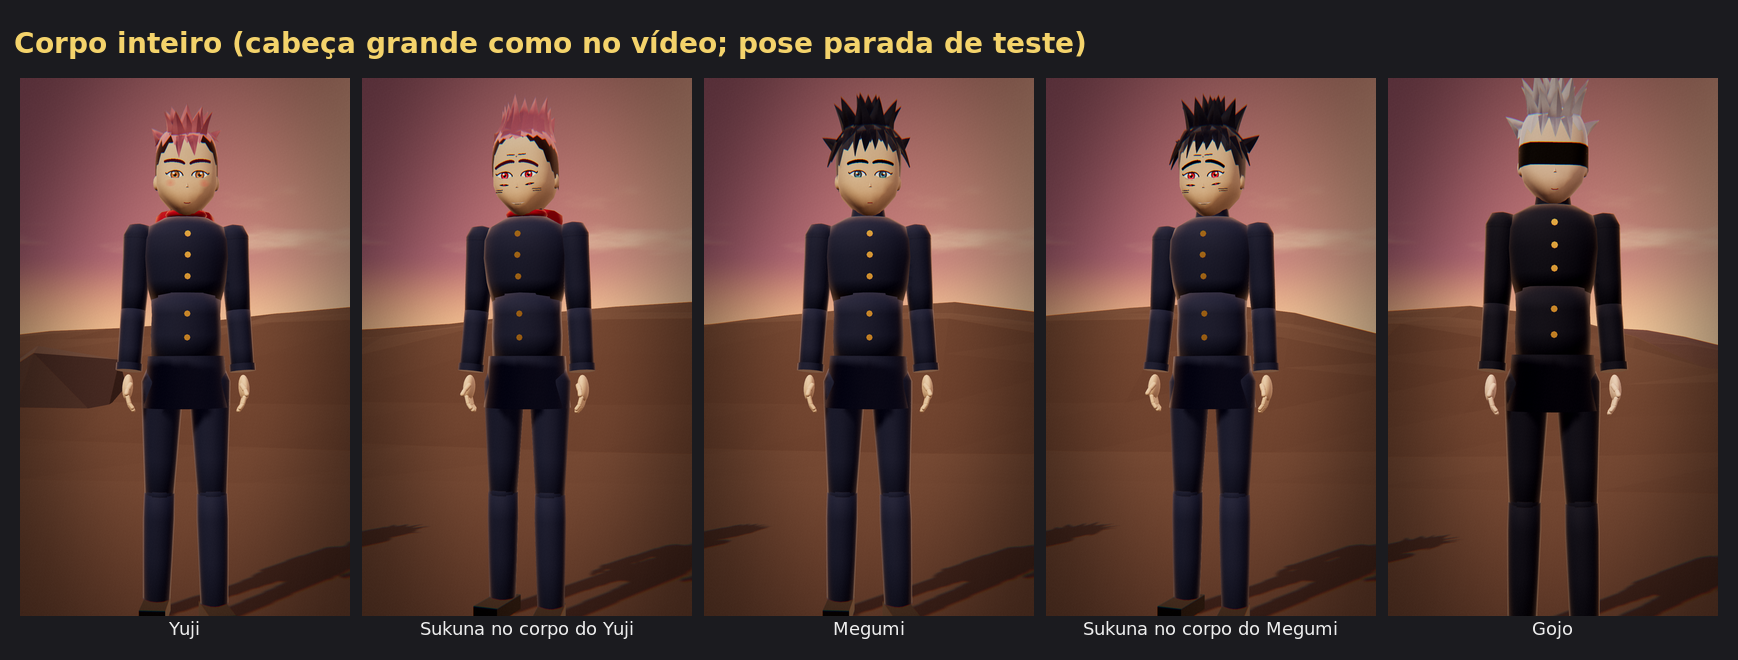
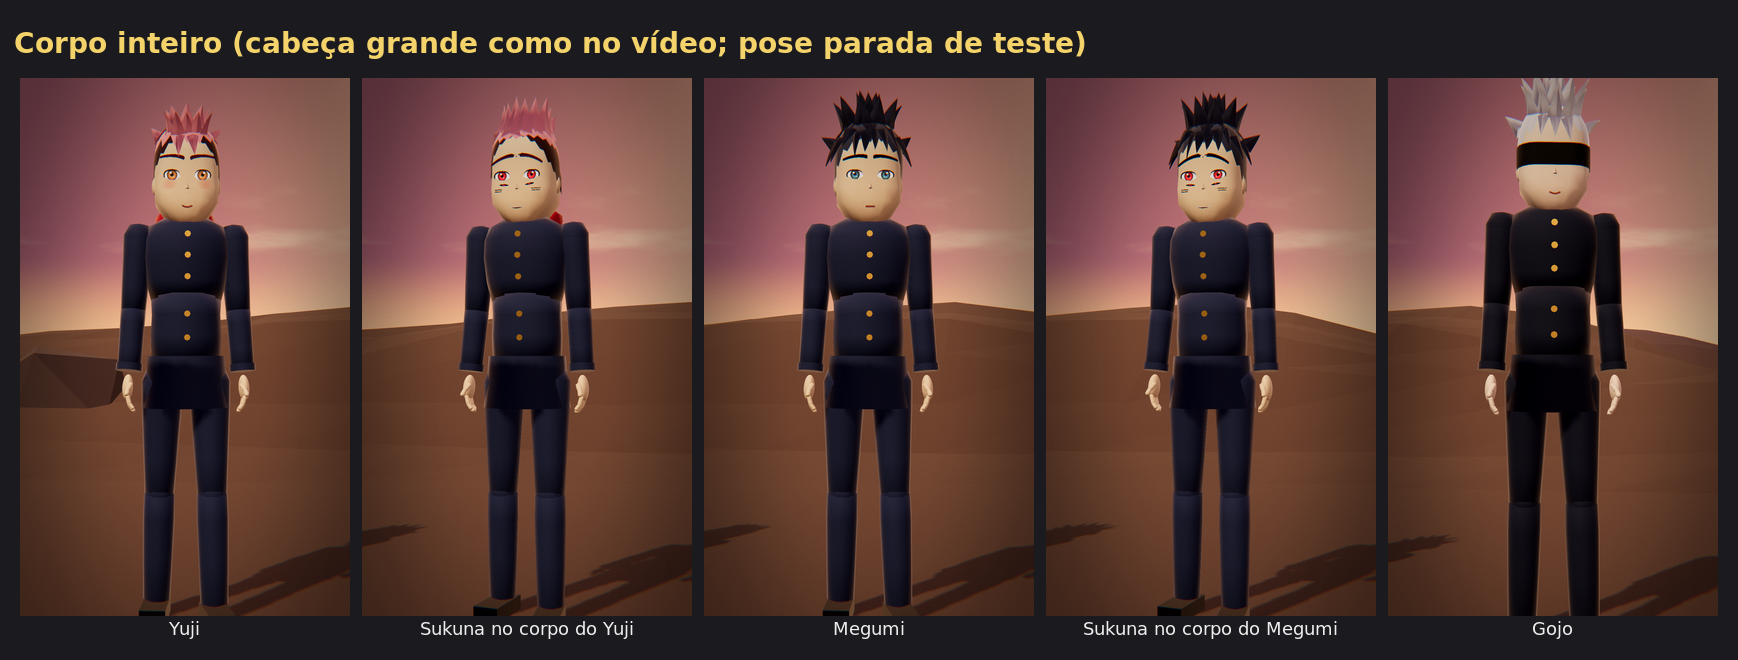
Personagens low-poly v5: medidos traço a traço no Eren criança do vídeo de referência
- Cabeça: metade de baixo mais comprida e cheia (queixo longo em U), rosto mais largo.
- Olhos maiores, com o traço de cima em fita (fino no canto de dentro, grosso em cima
  e no canto de fora), íris com raios claros, vinco e linha de baixo.
- Nariz 3D maior, sobrancelhas mais altas e compridas, boca em retângulo arredondado
  (o dobro da largura) mais baixa, blush largo, orelhas maiores.
- Cabelo mais volumoso, franja até perto das sobrancelhas, laterais curtas e largas,
  topo com várias pontas pequenas; gola mais baixa pra mostrar o queixo.
- Câmeras de calibração iguais aos quadros de 9 s e 12 s do vídeo.

Claude-Session: https://claude.ai/code/session_01NohiMdkC2Su1SAJxQxprzv

diff --git a/tools/motor3d/lowpoly.js b/tools/motor3d/lowpoly.js
@@ -47,49 +47,61 @@ function vincoNormais(geo, ang = 0.6) {
 
 // ---------------------------------------------------------------- texturas do rosto
 const EYT = {};
-// olho de anime da referência (o Eren criança): olho alto e arredondado, íris enorme e redonda que ocupa quase toda a altura,
-// contorno escuro na íris, pupila, dois brilhos; cílio de cima em arco preto grosso passando do canto; linha de baixo fina
-// e o vinco da pálpebra (arco fino acima). alt < 1 deixa o olho mais baixo (adultos).
+// olho de anime da referência (o Eren criança, medido quadro a quadro): abertura alta e redonda; o traço de cima é um arco
+// alto e grosso que desce pelos dois cantos (o externo desce mais, em gancho); íris enorme (~70% da largura) com o topo
+// escondido sob o traço, anel escuro, raios claros, pupila e dois brilhos; linha de baixo fina e o vinco fino acima do olho.
+// alt < 1 deixa o olho mais baixo (adultos, olhar sério).
 function olhoTex(iris, o = {}) {
   const k = iris + JSON.stringify(o); if (EYT[k]) return EYT[k];
   return (EYT[k] = canvasTex(256, 200, (c, w, h) => {
     c.clearRect(0, 0, w, h);
-    const al = o.alt ?? 1, L = 24, R = 234, yL = 112, yR = 98, T = 102 - 72 * al, B = 102 + 64 * al;
-    const cima = () => { c.moveTo(L, yL); c.bezierCurveTo(L + 18, T + 4, R - 72, T - 8, R, yR); };
-    const baixo = () => { c.bezierCurveTo(R - 14, B - 6, L + 60, B + 8, L, yL); };
-    c.save(); c.beginPath(); cima(); baixo(); c.closePath(); c.clip();
-    c.fillStyle = o.esclera ?? "#f7f4f0"; c.fillRect(0, 0, w, h);
-    const ix = 128 + (o.dx ?? 0), iy = 106, ir = 66 * Math.min(1.04, Math.max(0.72, al));
-    const g = c.createRadialGradient(ix, iy + ir * 0.35, ir * 0.08, ix, iy, ir);
-    g.addColorStop(0, corCSS(iris, 0.2)); g.addColorStop(0.55, corCSS(iris, 0.04)); g.addColorStop(1, corCSS(iris, -0.16));
+    const al = o.alt ?? 1, L = 32, R = 224, T = 104 - 66 * al, B = 104 + 62 * al;
+    const arco = () => { c.moveTo(L, 122); c.bezierCurveTo(L + 4, T + 18, L + 44, T, 128, T); c.bezierCurveTo(R - 34, T, R + 2, T + 22, R + 2, 112); };
+    const abertura = () => { arco(); c.bezierCurveTo(R - 6, B - 10, 170, B + 2, 128, B + 2); c.bezierCurveTo(84, B + 2, L + 6, B - 18, L, 122); };
+    c.save(); c.beginPath(); abertura(); c.closePath(); c.clip();
+    c.fillStyle = o.esclera ?? "#f8f6f2"; c.fillRect(0, 0, w, h);
+    const ix = 130 + (o.dx ?? 0), iy = 106, ir = 68 * Math.min(1.02, Math.max(0.7, al));
+    const g = c.createRadialGradient(ix, iy + ir * 0.4, ir * 0.1, ix, iy, ir);
+    g.addColorStop(0, corCSS(iris, 0.22)); g.addColorStop(0.6, corCSS(iris, 0.04)); g.addColorStop(1, corCSS(iris, -0.14));
     c.fillStyle = g; c.beginPath(); c.arc(ix, iy, ir, 0, Math.PI * 2); c.fill();
-    c.strokeStyle = corCSS(iris, -0.36); c.lineWidth = 8; c.beginPath(); c.arc(ix, iy, ir - 4, 0, Math.PI * 2); c.stroke();
-    c.fillStyle = "#0b0809"; c.beginPath(); if (o.fenda) c.ellipse(ix, iy, ir * 0.14, ir * 0.6, 0, 0, Math.PI * 2); else c.arc(ix, iy, ir * 0.38, 0, Math.PI * 2); c.fill();
-    c.fillStyle = "#ffffff"; c.beginPath(); c.ellipse(ix + ir * 0.3, iy - ir * 0.34, ir * 0.27, ir * 0.24, -0.5, 0, Math.PI * 2); c.fill();
-    c.globalAlpha = 0.9; c.beginPath(); c.arc(ix - ir * 0.38, iy + ir * 0.34, ir * 0.11, 0, Math.PI * 2); c.fill(); c.globalAlpha = 1;
-    const sh = c.createLinearGradient(0, T, 0, T + 40); sh.addColorStop(0, "rgba(70,50,50,.45)"); sh.addColorStop(1, "rgba(70,50,50,0)"); c.fillStyle = sh; c.fillRect(0, 0, w, h);
+    c.strokeStyle = "rgba(255,255,255,.16)"; c.lineWidth = 3; for (let i = 0; i < 14; i++) { const an = (i / 14) * Math.PI * 2; c.beginPath(); c.moveTo(ix + Math.cos(an) * ir * 0.4, iy + Math.sin(an) * ir * 0.4); c.lineTo(ix + Math.cos(an) * ir * 0.86, iy + Math.sin(an) * ir * 0.86); c.stroke(); }
+    c.strokeStyle = corCSS(iris, -0.34); c.lineWidth = 7; c.beginPath(); c.arc(ix, iy, ir - 3.5, 0, Math.PI * 2); c.stroke();
+    c.fillStyle = "#0b0809"; c.beginPath(); if (o.fenda) c.ellipse(ix, iy - 4, ir * 0.13, ir * 0.58, 0, 0, Math.PI * 2); else c.ellipse(ix + 2, iy - 6, ir * 0.33, ir * 0.37, 0, 0, Math.PI * 2); c.fill();
+    c.fillStyle = "#ffffff"; c.beginPath(); c.ellipse(ix + ir * 0.3, iy - ir * 0.42, ir * 0.24, ir * 0.2, -0.3, 0, Math.PI * 2); c.fill();
+    c.globalAlpha = 0.85; c.beginPath(); c.arc(ix - ir * 0.36, iy + ir * 0.42, ir * 0.1, 0, Math.PI * 2); c.fill(); c.globalAlpha = 1;
+    const sh = c.createLinearGradient(0, T, 0, T + 44); sh.addColorStop(0, "rgba(60,40,40,.5)"); sh.addColorStop(1, "rgba(60,40,40,0)"); c.fillStyle = sh; c.fillRect(0, 0, w, h);
     c.restore();
     c.lineCap = "round"; c.lineJoin = "round";
-    c.strokeStyle = "rgba(150,100,90,.75)"; c.lineWidth = 4; c.beginPath(); c.moveTo(L + 70, B + 2); c.bezierCurveTo(L + 110, B + 6, R - 50, B, R - 18, B - 18); c.stroke(); // linha de baixo
-    c.strokeStyle = "rgba(150,100,90,.6)"; c.lineWidth = 3.5; c.beginPath(); c.moveTo(L + 40, T + 2); c.bezierCurveTo(L + 70, T - 22, R - 60, T - 26, R - 26, T - 6); c.stroke(); // vinco da pálpebra
-    c.strokeStyle = o.cilio ?? "#141010"; c.lineWidth = 15; c.beginPath(); cima(); c.quadraticCurveTo(R + 8, yR - 2, R + 16, yR - 14); c.stroke(); // cílio de cima
+    c.strokeStyle = "rgba(140,96,84,.6)"; c.lineWidth = 3.5; c.beginPath(); c.moveTo(70, B - 2); c.bezierCurveTo(100, B + 6, 180, B + 2, R - 14, B - 22); c.stroke();        // linha de baixo
+    c.strokeStyle = "rgba(140,96,84,.55)"; c.lineWidth = 3.5; c.beginPath(); c.moveTo(96, T - 14); c.bezierCurveTo(150, T - 22, R - 6, T - 14, R + 8, T + 18); c.stroke(); // vinco
+    // traço de cima: fita de espessura variável seguindo o arco (fino no canto de dentro, grosso no alto e no canto de fora)
+    const pts = []; { const P0 = [L + 6, 112], P1 = [L + 8, T + 16], P2 = [L + 44, T], P3 = [128, T], Q1 = [R - 34, T], Q2 = [R + 2, T + 22], Q3 = [R + 2, 112], Q4 = [R - 4, 136];
+      const bz = (a, b_, c_, d_, t) => { const u = 1 - t; return [u * u * u * a[0] + 3 * u * u * t * b_[0] + 3 * u * t * t * c_[0] + t * t * t * d_[0], u * u * u * a[1] + 3 * u * u * t * b_[1] + 3 * u * t * t * c_[1] + t * t * t * d_[1]]; };
+      for (let i = 0; i <= 20; i++) pts.push(bz(P0, P1, P2, P3, i / 20)); for (let i = 1; i <= 20; i++) pts.push(bz(P3, Q1, Q2, Q3, i / 20)); for (let i = 1; i <= 6; i++) { const t = i / 6; pts.push([Q3[0] + (Q4[0] - Q3[0]) * t, Q3[1] + (Q4[1] - Q3[1]) * t]); } }
+    const esp = (i) => { const f = i / (pts.length - 1); return f < 0.4 ? lerp(1.5, 9, sm(f / 0.4)) : f < 0.85 ? 9 : lerp(9, 6, (f - 0.85) / 0.15); };
+    const nrm = (i) => { const a_ = pts[Math.max(0, i - 1)], b_ = pts[Math.min(pts.length - 1, i + 1)], dx = b_[0] - a_[0], dy = b_[1] - a_[1], l = Math.hypot(dx, dy) || 1; return [-dy / l, dx / l]; };
+    c.fillStyle = o.cilio ?? "#141010"; c.beginPath();
+    pts.forEach((q, i) => { const [nx, ny] = nrm(i), e = esp(i); i ? c.lineTo(q[0] + nx * e, q[1] + ny * e) : c.moveTo(q[0] + nx * e, q[1] + ny * e); });
+    for (let i = pts.length - 1; i >= 0; i--) { const [nx, ny] = nrm(i), e = esp(i); c.lineTo(pts[i][0] - nx * e * 0.6, pts[i][1] - ny * e * 0.6); }
+    c.closePath(); c.fill();
   }));
 }
-// olho fechado: arco escuro curvado pra baixo com cílios no canto (como o Eren dormindo na referência)
-const olhoFechadoTex = canvasTex(256, 200, (c, w, h) => { c.clearRect(0, 0, w, h); c.strokeStyle = "#141010"; c.lineCap = "round"; c.lineWidth = 12; c.beginPath(); c.moveTo(26, 104); c.quadraticCurveTo(128, 150, 232, 100); c.stroke(); c.lineWidth = 6; [[176, 128], [204, 118], [226, 106]].forEach(([x, y]) => { c.beginPath(); c.moveTo(x, y); c.lineTo(x + 8, y + 14); c.stroke(); }); });
-const sobrancelhaTex = canvasTex(256, 64, (c, w, h) => { c.clearRect(0, 0, w, h); c.fillStyle = "#ffffff"; c.beginPath(); c.moveTo(10, 44); c.bezierCurveTo(50, 6, 180, 2, 246, 24); c.bezierCurveTo(254, 28, 252, 46, 242, 46); c.bezierCurveTo(180, 30, 70, 38, 22, 62); c.bezierCurveTo(8, 64, 2, 52, 10, 44); c.closePath(); c.fill(); });
+// olho fechado (medido no Eren dormindo): arco escuro grosso curvado pra baixo, com cílios curtos embaixo
+const olhoFechadoTex = canvasTex(256, 200, (c, w, h) => { c.clearRect(0, 0, w, h); c.strokeStyle = "#141010"; c.lineCap = "round"; c.lineWidth = 13; c.beginPath(); c.moveTo(28, 104); c.bezierCurveTo(70, 140, 180, 146, 228, 100); c.stroke(); c.lineWidth = 5; [[80, 130], [110, 136], [140, 137], [170, 133], [198, 122]].forEach(([x, y]) => { c.beginPath(); c.moveTo(x, y); c.lineTo(x + 3, y + 15); c.stroke(); }); });
+// sobrancelha: barra comprida e grossa, mais grossa na ponta de dentro, arco suave e pontas arredondadas
+const sobrancelhaTex = canvasTex(256, 64, (c, w, h) => { c.clearRect(0, 0, w, h); c.fillStyle = "#ffffff"; c.beginPath(); c.moveTo(14, 26); c.bezierCurveTo(70, 4, 170, 4, 240, 26); c.bezierCurveTo(252, 30, 250, 46, 238, 44); c.bezierCurveTo(170, 28, 80, 30, 20, 58); c.bezierCurveTo(4, 62, 2, 34, 14, 26); c.closePath(); c.fill(); });
 const BOCAT = {};
 function bocaTex(tipo) {
   if (BOCAT[tipo]) return BOCAT[tipo];
   return (BOCAT[tipo] = canvasTex(256, 128, (c, w, h) => {
-    c.clearRect(0, 0, w, h); c.lineCap = "round"; c.lineJoin = "round"; const cx = w / 2, cy = h / 2, cor = "#7a2a26";
-    if (tipo === "linha") { c.fillStyle = cor; c.beginPath(); c.roundRect(cx - 44, cy - 8, 88, 16, 6); c.fill(); }
-    else if (tipo === "sorriso") { c.strokeStyle = cor; c.lineWidth = 15; c.beginPath(); c.moveTo(cx - 50, cy - 8); c.quadraticCurveTo(cx, cy + 14, cx + 50, cy - 8); c.stroke(); }
-    else if (tipo === "triste") { c.strokeStyle = cor; c.lineWidth = 13; c.beginPath(); c.moveTo(cx - 46, cy + 6); c.lineTo(cx - 22, cy - 6); c.lineTo(cx, cy + 2); c.lineTo(cx + 22, cy - 6); c.lineTo(cx + 46, cy + 6); c.stroke(); }
-    else if (tipo === "aberta") { c.fillStyle = "#5a1014"; c.beginPath(); c.ellipse(cx, cy, 26, 20, 0, 0, Math.PI * 2); c.fill(); c.fillStyle = "#a83a3e"; c.beginPath(); c.ellipse(cx, cy + 9, 16, 8, 0, 0, Math.PI * 2); c.fill(); }
-    else if (tipo === "risada") { // sorriso de canto a canto do Sukuna, fino, com a fileira de dentes
-      c.fillStyle = "#2a0a0e"; c.beginPath(); c.moveTo(cx - 96, cy - 14); c.quadraticCurveTo(cx, cy + 34, cx + 96, cy - 14); c.quadraticCurveTo(cx, cy + 6, cx - 96, cy - 14); c.fill();
-      c.save(); c.clip(); c.fillStyle = "#f4efe6"; for (let i = 0; i < 13; i++) c.fillRect(cx - 90 + i * 14, cy - 12, 11, 14); c.restore();
+    c.clearRect(0, 0, w, h); c.lineCap = "round"; c.lineJoin = "round"; const cx = w / 2, cy = h / 2, cor = "#86402f";
+    if (tipo === "linha") { c.fillStyle = cor; c.beginPath(); c.roundRect(cx - 60, cy - 11, 120, 22, 9); c.fill(); }
+    else if (tipo === "sorriso") { c.strokeStyle = cor; c.lineWidth = 20; c.beginPath(); c.moveTo(cx - 58, cy - 10); c.quadraticCurveTo(cx, cy + 22, cx + 58, cy - 10); c.stroke(); }
+    else if (tipo === "triste") { c.strokeStyle = cor; c.lineWidth = 20; c.beginPath(); c.moveTo(cx - 56, cy + 12); c.quadraticCurveTo(cx, cy - 18, cx + 56, cy + 12); c.stroke(); }
+    else if (tipo === "aberta") { c.fillStyle = "#3a0c10"; c.beginPath(); c.ellipse(cx, cy, 34, 26, 0, 0, Math.PI * 2); c.fill(); c.fillStyle = "#b8343a"; c.beginPath(); c.ellipse(cx, cy + 12, 22, 11, 0, 0, Math.PI * 2); c.fill(); }
+    else if (tipo === "risada") { // sorriso de canto a canto do Sukuna, com a fileira de dentes
+      c.fillStyle = "#2a0a0e"; c.beginPath(); c.moveTo(cx - 110, cy - 16); c.quadraticCurveTo(cx, cy + 40, cx + 110, cy - 16); c.quadraticCurveTo(cx, cy + 8, cx - 110, cy - 16); c.fill();
+      c.save(); c.clip(); c.fillStyle = "#f4efe6"; for (let i = 0; i < 15; i++) c.fillRect(cx - 104 + i * 14, cy - 14, 11, 16); c.restore();
     }
   }));
 }
@@ -97,7 +109,7 @@ function narizGeo(w, hh, p) {
   const T = [0, hh * 0.62, 0], E = [-w / 2, -hh * 0.38, 0], D = [w / 2, -hh * 0.38, 0], P = [0, -hh * 0.3, p];
   const g = new THREE.BufferGeometry(); g.setAttribute("position", new THREE.Float32BufferAttribute([...T, ...E, ...P, ...T, ...P, ...D, ...E, ...D, ...P], 3)); g.computeVertexNormals(); return g;
 }
-const blushTex = canvasTex(128, 64, (c, w, h) => { c.clearRect(0, 0, w, h); const g = c.createRadialGradient(w / 2, h / 2, 2, w / 2, h / 2, w / 2); g.addColorStop(0, "rgba(240,120,120,.55)"); g.addColorStop(1, "rgba(240,120,120,0)"); c.fillStyle = g; c.beginPath(); c.ellipse(w / 2, h / 2, w / 2, h / 2, 0, 0, Math.PI * 2); c.fill(); });
+const blushTex = canvasTex(128, 64, (c, w, h) => { c.clearRect(0, 0, w, h); const g = c.createRadialGradient(w / 2, h / 2, 2, w / 2, h / 2, w / 2); g.addColorStop(0, "rgba(242,128,120,.5)"); g.addColorStop(0.55, "rgba(242,128,120,.28)"); g.addColorStop(1, "rgba(242,128,120,0)"); c.fillStyle = g; c.save(); c.scale(1, h / w); c.beginPath(); c.arc(w / 2, w / 2, w / 2, 0, Math.PI * 2); c.restore(); c.fill(); });
 // marcas do Sukuna: o segundo par de olhos, as listras das bochechas e a marca da testa
 const olhoExtraTex = canvasTex(256, 96, (c, w, h) => { c.clearRect(0, 0, w, h); const cx = w / 2, cy = h / 2; c.fillStyle = "#140a0c"; c.beginPath(); c.moveTo(cx - 116, cy + 4); c.quadraticCurveTo(cx, cy - 44, cx + 116, cy - 6); c.quadraticCurveTo(cx, cy + 40, cx - 116, cy + 4); c.fill();
   c.fillStyle = "#d8202c"; c.beginPath(); c.ellipse(cx, cy, 28, 20, 0, 0, 7); c.fill(); c.fillStyle = "#2a0606"; c.beginPath(); c.ellipse(cx, cy, 9, 18, 0, 0, 7); c.fill(); c.fillStyle = "#fff"; c.beginPath(); c.arc(cx - 9, cy - 7, 5, 0, 7); c.fill(); });
@@ -105,20 +117,27 @@ const bochechaTex = canvasTex(256, 128, (c, w, h) => { c.clearRect(0, 0, w, h); 
 const testaTex = canvasTex(256, 64, (c, w, h) => { c.clearRect(0, 0, w, h); c.fillStyle = "#16090c"; c.beginPath(); c.moveTo(14, 20); c.lineTo(w / 2 - 22, 22); c.lineTo(w / 2, 58); c.lineTo(w / 2 + 22, 22); c.lineTo(w - 14, 20); c.lineTo(w - 14, 30); c.lineTo(w / 2 + 16, 32); c.lineTo(w / 2, 48); c.lineTo(w / 2 - 16, 32); c.lineTo(14, 30); c.closePath(); c.fill(); });
 
 // ---------------------------------------------------------------- cabeça
-// quadrado arredondado (superelipsoide) com a frente quase plana; afina numa mandíbula comprida e queixo arredondado
-const HEAD = { a: 0.087, b: 0.124, c: 0.092, n: 2.9, cy: 0.105, frente: 0.9, jawY: -0.3, jaw: 0.5 };
-function superDir(d, n) { const s_ = Math.pow(Math.pow(Math.abs(d.x), n) + Math.pow(Math.abs(d.y), n) + Math.pow(Math.abs(d.z), n), -1 / n); return d.multiplyScalar(s_); }
+// cabeça medida no Eren criança da referência: crânio arredondado em cima; embaixo um bloco mais "cheio" (expoente maior),
+// frente plana descendo até o queixo, bochechas retas até a altura da boca e queixo largo em U
+const HEAD = { a: 0.092, b: 0.132, bBaixo: 0.158, c: 0.092, n: 2.6, nBaixo: 3.6, cy: 0.103, frente: 0.9, jawY: -0.46, jaw: 0.42 };
+const yCab = (uy, H) => H.cy + uy * (uy < 0 ? H.bBaixo ?? H.b : H.b); // metade de baixo mais comprida (queixo longo como na referência)
+function superDir(d, n, m = n) { // superelipsoide com expoente n em x/z e m em y: acha t com |tx|^n + |ty|^m + |tz|^n = 1
+  const f = (t) => Math.pow(Math.abs(d.x * t), n) + Math.pow(Math.abs(d.y * t), m) + Math.pow(Math.abs(d.z * t), n) - 1;
+  let lo = 0, hi = 2; for (let i = 0; i < 30; i++) { const mid = (lo + hi) / 2; if (f(mid) > 0) hi = mid; else lo = mid; }
+  return d.multiplyScalar((lo + hi) / 2);
+}
 function headUnit(v, H = HEAD) {
-  superDir(v.normalize(), H.n);
+  v.normalize(); const baixo = v.y < 0;
+  superDir(v, baixo ? (H.nBaixo ?? H.n) : H.n, baixo ? (H.nBaixo ?? H.n) : H.n);
   if (v.z > H.frente) v.z = H.frente;
-  if (v.y < H.jawY) { const k = sm(clamp((H.jawY - v.y) / (1 + H.jawY))); v.x *= 1 - H.jaw * k; v.z *= v.z < 0 ? 1 - 0.35 * k : 1 - 0.1 * k; }
+  if (v.y < H.jawY) { const k = sm(clamp((H.jawY - v.y) / (1 + H.jawY))); v.x *= 1 - H.jaw * k; v.z *= v.z < 0 ? 1 - 0.3 * k : 1 - 0.14 * k; }
   if (v.z < 0) v.z *= 1.05;
   return v;
 }
 function headGeoLP(o = {}) {
   const H = { ...HEAD, ...o }, g = new THREE.SphereGeometry(1, o.ws ?? 16, o.hs ?? 14);
-  deform(g, (v) => { headUnit(v, H); v.set(v.x * H.a, H.cy + v.y * H.b, v.z * H.c); });
-  return vincoNormais(g, 1.05);
+  deform(g, (v) => { headUnit(v, H); v.set(v.x * H.a, yCab(v.y, H), v.z * H.c); });
+  return vincoNormais(g, 1.3);
 }
 
 // ---------------------------------------------------------------- cabelo
@@ -152,7 +171,7 @@ function capaceteGeo(o, H) {
     const thE = (bordaCabelo(o, ph) + (ponta ? (hash(jj * 1.7 + seed) - 0.5) * (o.varia ?? 0.06) : -(o.entalhe ?? 0.1))) * Math.PI;
     for (let i = 0; i <= SV; i++) {
       const th = (i / SV) * thE, u = headUnit(V3_(Math.sin(th) * Math.sin(ph), Math.cos(th), Math.sin(th) * Math.cos(ph)), H), inf = inflaCabelo(o, i / SV);
-      pos.push(u.x * H.a * inf, H.cy + u.y * H.b * inf, u.z * H.c * inf);
+      pos.push(u.x * H.a * inf, H.cy + (yCab(u.y, H) - H.cy) * inf, u.z * H.c * inf);
     }
   }
   for (let j = 0; j < SH; j++) for (let i = 0; i < SV; i++) { const a = j * (SV + 1) + i, b = a + SV + 1; idx.push(a, a + 1, b, a + 1, b + 1, b); }
@@ -185,7 +204,7 @@ function cabeloLP(head, o) {
   const mf = LPmat(o.cor, { rim: 1.1, side: THREE.DoubleSide, rough: 0.82 }); // mechas facetadas (sombreado chapado, como na referência)
   if (o.baixo) mesh(capaceteGeo({ ...o, ...o.baixo }, H), LPmat(o.baixo.cor, { rim: 0.9, liso: true, side: THREE.DoubleSide, rough: 0.85 }), 0, 0, 0, hr); // camada de baixo (undercut escuro)
   mesh(capaceteGeo(o, H), m, 0, 0, 0, hr);
-  const pt = (th, ph, inf) => { const u = headUnit(V3_(Math.sin(th) * Math.sin(ph), Math.cos(th), Math.sin(th) * Math.cos(ph)), H); return { u, w: V3_(u.x * H.a * inf, cy + u.y * H.b * inf, u.z * H.c * inf) }; };
+  const pt = (th, ph, inf) => { const u = headUnit(V3_(Math.sin(th) * Math.sin(ph), Math.cos(th), Math.sin(th) * Math.cos(ph)), H); return { u, w: V3_(u.x * H.a * inf, cy + (yCab(u.y, H) - cy) * inf, u.z * H.c * inf) }; };
   const naCasca = (th, ph, ext = 0.012) => { const thE = bordaCabelo(o, ph) * Math.PI, inf = inflaCabelo(o, clamp(th / thE)) + ext; return pt(th, ph, inf); };
   // pétalas largas deitadas, escorrendo do topo (dão as camadas do cabelo)
   const np = o.petalas ?? 0, seed = o.seed ?? 0;
@@ -236,7 +255,7 @@ function pessoaLP(o = {}) {
   const chP = [[0.001, -0.02], [0.138, -0.02], [0.16, 0.06], [0.176, 0.15], [0.174, 0.22], [0.148, 0.27], [0.086, 0.305], [0.001, 0.31]];
   const ch = mesh(lathe(chP, R + 2), roupa, 0, 0, 0, S.chest); ch.scale.z = 0.72;
   const hem = mesh(lathe([[0.152, 0.07], [0.16, -0.03], [0.172, -0.13]], R + 2), roupa2, 0, 0, 0, S.hips); hem.scale.z = 0.84;
-  const gola = mesh(new THREE.CylinderGeometry(0.056, 0.07, 0.085, R + 2, 1, true), roupa2, 0, 0.34, -0.004, S.chest); gola.scale.z = 0.94;
+  const gola = mesh(new THREE.CylinderGeometry(0.058, 0.07, 0.06, R + 2, 1, true), roupa2, 0, 0.326, -0.004, S.chest); gola.scale.z = 0.94;
   if (P.botoes !== false) {
     [0.07, 0.15, 0.23].forEach((y) => { const b = mesh(cyl(0.012, 0.012, 0.006, 8), botao, 0, y, perfilR(chP.slice(1), y) * 0.72 + 0.002, S.chest); b.rotation.x = Math.PI / 2; });
     [0.04, 0.13].forEach((y) => { const b = mesh(cyl(0.012, 0.012, 0.006, 8), botao, 0, y, 0.137 * 0.76 + 0.002, S.spine); b.rotation.x = Math.PI / 2; });
@@ -259,9 +278,9 @@ function pessoaLP(o = {}) {
   mesh(cyl(0.036, 0.042, 0.1, R), skin, 0, 0.03, 0, S.neck);
   const headM = mesh(headGeoLP(P.cabeca || {}), skin, 0, 0, 0);
   const zAt = (x, y) => surfZ(headM, x, y);
-  [-1, 1].forEach((k) => { const ea = mesh(sph(1, 8, 6), skin, k * 0.085, 0.088, -0.012); ea.scale.set(0.011, 0.022, 0.015); S.head.add(ea); });
+  [-1, 1].forEach((k) => { const ea = mesh(sph(1, 8, 6), skin, k * 0.087, 0.078, -0.012); ea.scale.set(0.013, 0.028, 0.017); S.head.add(ea); });
   // rosto: olhos largos e baixos, sobrancelhas grossas, nariz em dois tons, bocas, blush
-  const EX = 0.0345, EY = 0.093, OW = 0.054 * (P.olhoTam ?? 1), OH = OW * 200 / 256;
+  const EX = 0.042, EY = 0.093, OW = 0.066 * (P.olhoTam ?? 1), OH = OW * 200 / 256;
   const olhos = [], fechados = [];
   if (!P.venda) [-1, 1].forEach((k) => {
     const g = grp(S.head, k * EX, EY, zAt(k * EX, EY) + 0.003); g.rotation.set(0, 0, k * (P.olhoInc ?? 0));
@@ -269,13 +288,13 @@ function pessoaLP(o = {}) {
     const f = decal(S.head, olhoFechadoTex, OW, OH, k * EX, EY - 0.002, zAt(k * EX, EY) + 0.0035, 0, 0, { espelho: k < 0 }); f.visible = false;
     olhos.push(g); fechados.push(f);
   });
-  const brows = [-1, 1].map((k) => { const y = EY + 0.034, rz0 = -k * (0.02 + (P.brava ?? 0) * 0.24); const g = grp(S.head, k * (EX + 0.001), y, zAt(k * EX, y) + 0.0034); g.rotation.z = rz0; g.userData = { y0: y, rz0 }; decal(g, sobrancelhaTex, 0.062, 0.02, 0, 0, 0, 0, 0, { espelho: k < 0, basico: true, cor: P.sobrancelha ?? 0x2a1c18 }); g.visible = !P.venda; return g; });
-  mesh(narizGeo(0.012, 0.017, 0.0075), LPmat(P.pele, { rim: 0.3, rough: 0.7 }), 0, 0.064, zAt(0, 0.064) - 0.0012, S.head); // nariz 3D
-  const MY = 0.015, mz = zAt(0, MY) + 0.003;
+  const brows = [-1, 1].map((k) => { const y = EY + 0.047, rz0 = -k * (0.02 + (P.brava ?? 0) * 0.24); const g = grp(S.head, k * (EX + 0.001), y, zAt(k * EX, y) + 0.0034); g.rotation.z = rz0; g.userData = { y0: y, rz0 }; decal(g, sobrancelhaTex, 0.074, 0.02, 0, 0, 0, 0, 0, { espelho: k < 0, basico: true, cor: P.sobrancelha ?? 0x2a1c18 }); g.visible = !P.venda; return g; });
+  mesh(narizGeo(0.0145, 0.022, 0.009), LPmat(P.pele, { rim: 0.3, rough: 0.7 }), 0, 0.062, zAt(0, 0.062) - 0.0014, S.head); // nariz 3D
+  const MY = 0.004, mz = zAt(0, MY) + 0.003;
   const bocas = {};
-  ["linha", "sorriso", "triste", "aberta"].forEach((t) => (bocas[t] = decal(S.head, bocaTex(t), 0.042, 0.021, 0, MY, mz)));
-  bocas.risada = decal(S.head, bocaTex("risada"), 0.058, 0.029, 0, MY, mz + 0.001);
-  if (P.blush) [-1, 1].forEach((k) => decal(S.head, blushTex, 0.036, 0.02, k * 0.047, 0.07, zAt(k * 0.047, 0.07) + 0.003, k * 0.25, 0, { suave: true }));
+  ["linha", "sorriso", "triste", "aberta"].forEach((t) => (bocas[t] = decal(S.head, bocaTex(t), 0.056, 0.028, 0, MY, mz)));
+  bocas.risada = decal(S.head, bocaTex("risada"), 0.066, 0.033, 0, MY, mz + 0.001);
+  if (P.blush) [-1, 1].forEach((k) => decal(S.head, blushTex, 0.05, 0.026, k * 0.05, 0.066, zAt(k * 0.05, 0.066) + 0.003, k * 0.3, 0, { suave: true }));
   let extras = null;
   if (P.sukuna) { // marcas do Sukuna
     extras = [-1, 1].map((k) => { const y = EY - 0.027, g = grp(S.head, k * 0.037, y, zAt(k * 0.036, y) + 0.003); g.rotation.set(0, 0, k * 0.1); decal(g, olhoExtraTex, 0.032, 0.012, 0, 0, 0); return g; });
@@ -316,7 +335,7 @@ const JJK = { navy: 0x2f3b58, navy2: 0x222a3e, botao: 0xd4aa50 };
 // cabelos do elenco: capacete liso + mechas grossas (como o Eren criança da referência)
 // tufos = mechas espetadas pra fora/cima saindo do topo; franja = mechas caindo na testa
 const tufos = (n, ph0, ph1, th, L, W, kr, ky, kb, x = {}) => franjaMechas(n, ph0, ph1, th, L, W, { kd: 0, kr, ky, kb, curva: x.curva ?? 0.2, esp: x.esp ?? 0.45, giro: x.giro ?? 0.6, seed: x.seed ?? 0 });
-const camadaTopo = (seed, L = 0.072, W = 0.066) => franjaMechas(10, -1, 0.8, 0.07, L, W, { seed, curva: -0.4, esp: 0.32, kr: 0.02, giro: 0.4 });
+const camadaTopo = (seed, L = 0.074, W = 0.078) => franjaMechas(8, -1, 0.75, 0.07, L, W, { seed, curva: -0.4, esp: 0.3, kr: 0.02, giro: 0.4 });
 const CAB = {
   undercut: { cor: 0x3e2226, bordaFrente: 0.28, bordaLado: 0.56, bordaTras: 0.6, volume: 1.05, volBorda: 1.03, dentes: 26, entalhe: 0.03, varia: 0.02 },
   yuji: { cor: 0xf09aa8, dentes: 16, bordaFrente: 0.32, bordaLado: 0.36, bordaTras: 0.42, volume: 1.12, volBorda: 1.065, entalhe: 0.06, varia: 0.05, petalas: 0, seed: 3,
@@ -353,23 +372,23 @@ const CAB = {
       ...tufos(5, 0.6, 1.4, 0.3, 0.065, 0.05, 0.8, 0.4, 0.5, { seed: 45 }),
     ] },
 };
-function yujiLP(o = {}) { return pessoaLP({ seed: 11, pele: 0xffe2b8, olho: "#b06a34", olhoAlt: 0.92, capuz: 0xb3262c, roupa: JJK.navy, calca: JJK.navy, blush: true, sobrancelha: 0x4a2228, cabelo: { ...CAB.yuji, baixo: CAB.undercut }, ...o }); }
+function yujiLP(o = {}) { return pessoaLP({ seed: 11, pele: 0xffe2b8, olho: "#b06a34", olhoAlt: 0.9, olhoTam: 0.92, capuz: 0xb3262c, roupa: JJK.navy, calca: JJK.navy, blush: true, sobrancelha: 0x4a2228, cabelo: { ...CAB.yuji, baixo: CAB.undercut }, ...o }); }
 function sukunaYujiLP(o = {}) { return yujiLP({ seed: 12, olho: "#c41e2a", olhoAlt: 0.8, olhoInc: 0.05, blush: false, sukuna: true, brava: 0.6, cabelo: { ...CAB.sukunaYuji, baixo: CAB.undercut }, ...o }); }
-function megumiLP(o = {}) { return pessoaLP({ seed: 21, pele: 0xfde0b6, olho: "#2f6070", olhoAlt: 0.82, brava: 0.35, roupa: JJK.navy, calca: JJK.navy, sobrancelha: 0x14161c, cabelo: CAB.megumi, ...o }); }
+function megumiLP(o = {}) { return pessoaLP({ seed: 21, pele: 0xfde0b6, olho: "#2f6070", olhoAlt: 0.8, olhoTam: 0.92, brava: 0.35, roupa: JJK.navy, calca: JJK.navy, sobrancelha: 0x14161c, cabelo: CAB.megumi, ...o }); }
 function sukunaMegumiLP(o = {}) { return megumiLP({ seed: 22, olho: "#c41e2a", olhoInc: 0.05, sukuna: true, brava: 0.65, ...o }); }
 function gojoLP(o = {}) { return pessoaLP({ seed: 31, pele: 0xffe6c8, venda: true, roupa: JJK.navy2, calca: JJK.navy2, scale: 1.08, cabelo: CAB.gojo, ...o }); }
 // calibração 2: o Eren criança da referência (cena da árvore), pra comparar rosto e cabelo lado a lado
 function erenCriancaLP(o = {}) {
-  const topete = (th, ph, L, kr, ky, kb) => ({ th, ph, L, W: 0.05, esp: 0.45, curva: 0.22, kd: 0.2, kr, ky, kb });
-  return pessoaLP({ seed: 6, pele: 0xffe4b8, olho: "#2a9a88", olhoAlt: 0.94, blush: true, roupa: 0x5c7a46, calca: 0x4a5a3a, botoes: false, sobrancelha: 0x2e1e14,
-    cabelo: { cor: 0x4a3020, dentes: 16, bordaFrente: 0.3, bordaLado: 0.56, bordaTras: 0.64, volume: 1.17, entalhe: 0.05, varia: 0.04, petalas: 0, seed: 2,
+  const topete = (th, ph, L, kr, ky, kb) => ({ th, ph, L, W: 0.062, esp: 0.45, curva: 0.22, kd: 0.2, kr, ky, kb });
+  return pessoaLP({ seed: 6, pele: 0xffdcaa, olho: "#2a9a88", olhoAlt: 0.94, blush: true, roupa: 0x5c7a46, calca: 0x4a5a3a, botoes: false, sobrancelha: 0x2e1e14,
+    cabelo: { cor: 0x4a3020, dentes: 16, bordaFrente: 0.3, bordaLado: 0.56, bordaTras: 0.64, volume: 1.26, volBorda: 1.08, entalhe: 0.05, varia: 0.04, petalas: 0, seed: 2,
       grossas: [
-        ...franjaMechas(10, -1, 0.8, 0.07, 0.072, 0.066, { seed: 5, curva: -0.4, esp: 0.32, kr: 0.02, giro: 0.4 }), // camada de cima: cobre o topo
-        ...franjaMechas(7, -0.24, 0.24, 0.25, 0.066, 0.034, { seed: 1, giro: 0.7 }),        // franja: triângulos grossos até as sobrancelhas
-        ...franjaMechas(3, 0.3, 0.5, 0.3, 0.074, 0.05, { seed: 2, kl: 0.2 }),               // laterais cobrindo as têmporas
-        ...franjaMechas(3, -0.5, -0.3, 0.3, 0.074, 0.05, { seed: 3, kl: 0.2 }),
+        ...franjaMechas(8, -1, 0.75, 0.07, 0.074, 0.078, { seed: 5, curva: -0.4, esp: 0.3, kr: 0.02, giro: 0.4 }), // camada de cima: poucas mechas largas cobrindo o topo
+        ...franjaMechas(7, -0.24, 0.24, 0.25, 0.066, 0.038, { seed: 1, giro: 0.7 }),        // franja: triângulos grossos até perto das sobrancelhas
+        ...franjaMechas(2, 0.32, 0.5, 0.3, 0.062, 0.064, { seed: 2, kl: 0.16 }),             // laterais curtas e largas sobre as têmporas
+        ...franjaMechas(2, -0.5, -0.32, 0.3, 0.062, 0.064, { seed: 3, kl: 0.16 }),
         ...franjaMechas(5, 0.62, 1.38, 0.42, 0.062, 0.042, { seed: 4 }),                    // nuca
-        topete(0.04, 0.15, 0.055, 0.5, 0.9, 0.35), topete(0.14, -0.3, 0.052, 1.0, 0.55, 0.2), topete(0.14, 0.36, 0.054, 1.0, 0.55, 0.25), topete(0.2, -0.55, 0.05, 1.0, 0.35, 0.3),
-        topete(0.2, 0.62, 0.05, 1.0, 0.35, 0.3), topete(0.12, 0.95, 0.05, 0.8, 0.5, 0.45), topete(0.1, -0.85, 0.05, 0.8, 0.55, 0.45), topete(0.06, 1.3, 0.05, 0.6, 0.8, 0.5),
+        ...tufos(8, -1, 0.75, 0.13, 0.046, 0.052, 0.9, 0.5, 0.3, { seed: 8, curva: 0.18 }),     // topo: várias pontas pequenas espalhadas (silhueta serrilhada)
+        topete(0.03, 0.1, 0.046, 0.5, 0.85, 0.3),
       ] }, ...o });
 }

diff --git a/tools/cenas-teste/lp-calibra2.js b/tools/cenas-teste/lp-calibra2.js
@@ -1,17 +1,25 @@
 // calibração 2: o Eren criança da referência, com luz de dia parecida (sol à esquerda, céu azul, grama)
-// câmeras (window.TEST_CAM): 1 = como no quadro de referência (≈20° pra direita), 2 = de frente, 3 = 45°, 4 = perfil
+// câmeras (window.TEST_CAM): 1 = ≈20° pra direita, 2 = de frente, 3 = 45°, 4 = perfil,
+// 5 = como o quadro de 144 s (olhos fechados, cabeça baixa, ≈30°), 6 = como o quadro de 12,2 s (olhando pra cima, ≈22°)
 addSet("teste", (g) => {
   const dome = skyDome(g, { top: 0x5a86c8, mid: 0x9cc0e8, hor: 0xdfe8ee, ground: 0x6a8a4a, exp: 0.7, sunDir: [-0.5, 0.6, 0.6], sunCol: 0xfff4e0, sunI: 0.6, disk: 1.2, cov: 0.5, cloudA: 0.35, cloudLit: 0xffffff, cloudSh: 0xb0c0d8, midY: 0.15 });
   mesh(new THREE.PlaneGeometry(60, 60), LPmat(0x6a9a40, { rim: 0.2 }), 0, 0, 0, g).rotation.x = -Math.PI / 2;
   const p = erenCriancaLP(); g.add(p);
+  const alvo = V3_();
   return {
     bg: 0x9cc0e8, fog: [20, 90], fogCol: 0xc8d8e8, dome, hand: 0,
-    look: { exposure: 1.15, bloom: 0.2, bloomT: 0.92, vig: 0.2, sat: 1.04, con: 1.02 },
+    look: { exposure: 1.32, bloom: 0.18, bloomT: 0.94, vig: 0.2, sat: 1.06, con: 1.02 },
     sun: { dir: [-0.75, 0.55, 0.45], col: 0xfff0d8, I: 2.4, c: [0, 1.6, 0], r: 4 }, hemi: { sky: 0xfff2e6, ground: 0x9a9a72, I: 1.05 }, fill: { col: 0xd0e0ff, I: 0.35, dir: [0.7, 0.2, 0.5] }, rim: { col: 0xffffff, str: 0.35 },
-    update(t) { restPose(p); p.position.set(0, 0, 0); p.rotation.set(0, 0, 0); standFeet(p); rostoLP(p, 1.0, { boca: "triste", triste: 0.5 }); },
+    update(t) {
+      const c = window.TEST_CAM | 0;
+      restPose(p); p.position.set(0, 0, 0); p.rotation.set(0, 0, 0); standFeet(p);
+      rostoLP(p, 1.0, c === 5 ? { fechados: true, boca: "linha" } : { boca: "triste", triste: 0.5 });
+      p.updateMatrixWorld(true); p.userData.head.getWorldPosition(alvo); alvo.y += 0.12;
+    },
     cam() {
-      const c = window.TEST_CAM | 0, A = [0, 0.36, 0, 0.78, 1.57][c] ?? 0, d = 1.25;
-      return { pos: [Math.sin(A) * d, 1.73, Math.cos(A) * d], look: [0, 1.7, 0], fov: 22, near: 0.02 };
+      const c = window.TEST_CAM | 0;
+      const [az, el, d, fov] = { 1: [0.36, 0.05, 1.25, 22], 2: [0, 0.05, 1.25, 22], 3: [0.78, 0.05, 1.25, 22], 4: [1.57, 0.05, 1.25, 22], 5: [0.52, 0.3, 1.35, 30], 6: [0.38, -0.14, 1.35, 30], 7: [0.42, 0.1, 1.35, 30] }[c] || [0, 0, 1.25, 22];
+      return { pos: [alvo.x + Math.sin(az) * Math.cos(el) * d, alvo.y + Math.sin(el) * d, alvo.z + Math.cos(az) * Math.cos(el) * d], look: [alvo.x, alvo.y, alvo.z], fov, near: 0.02 };
     },
   };
 });

diff --git a/tools/cenas-teste/lp-calibra.js b/tools/cenas-teste/lp-calibra.js
@@ -13,7 +13,7 @@ addSet("teste", (g) => {
     update(t) { P.forEach((p, i) => { restPose(p); p.position.set(X[i], 0, 0); p.rotation.set(0, 0, 0); standFeet(p); rostoLP(p, 1.0, F[i]); }); },
     cam() {
       const c = window.TEST_CAM | 0, i = c % 10, x = X[i], sc = i === 4 ? 1.08 : 1, v = Math.floor(c / 10), A = [0, 0.62, 1.57, 2.6][v] ?? 0, d = 1.3;
-      return { pos: [x + Math.sin(A) * d, 1.78 * sc, Math.cos(A) * d], look: [x, 1.75 * sc, 0], fov: 26, near: 0.02 };
+      return { pos: [x + Math.sin(A) * 1.45, 1.76 * sc, Math.cos(A) * 1.45], look: [x, 1.72 * sc, 0], fov: 26, near: 0.02 };
     },
   };
 });
